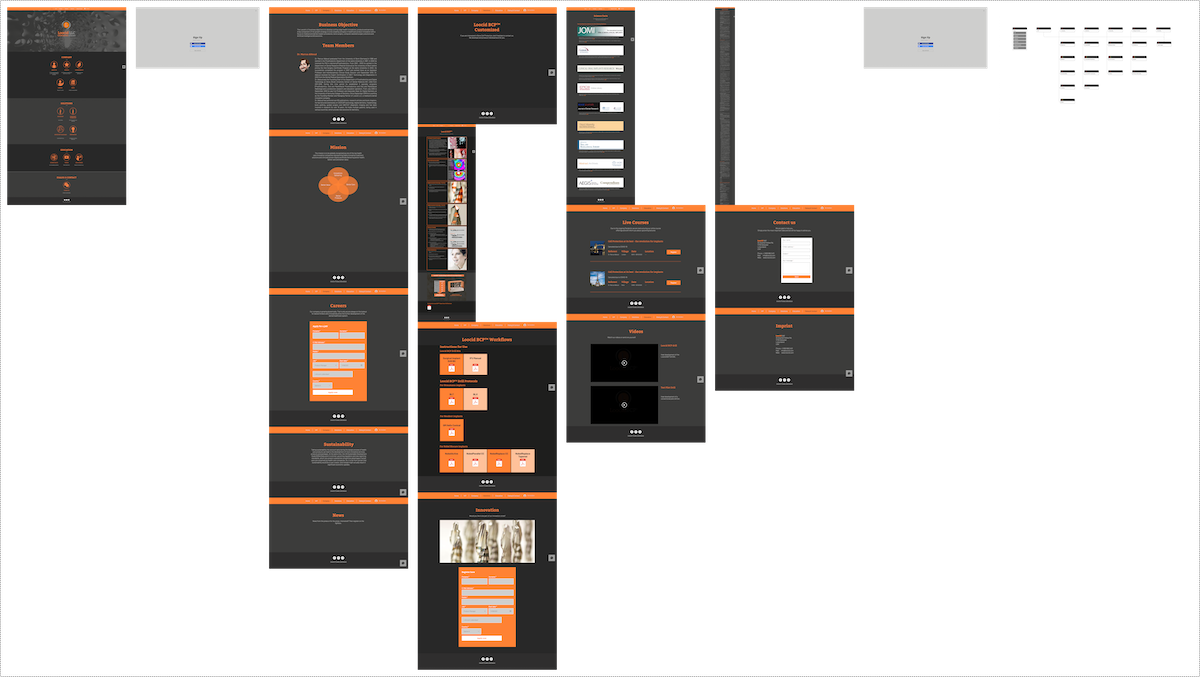
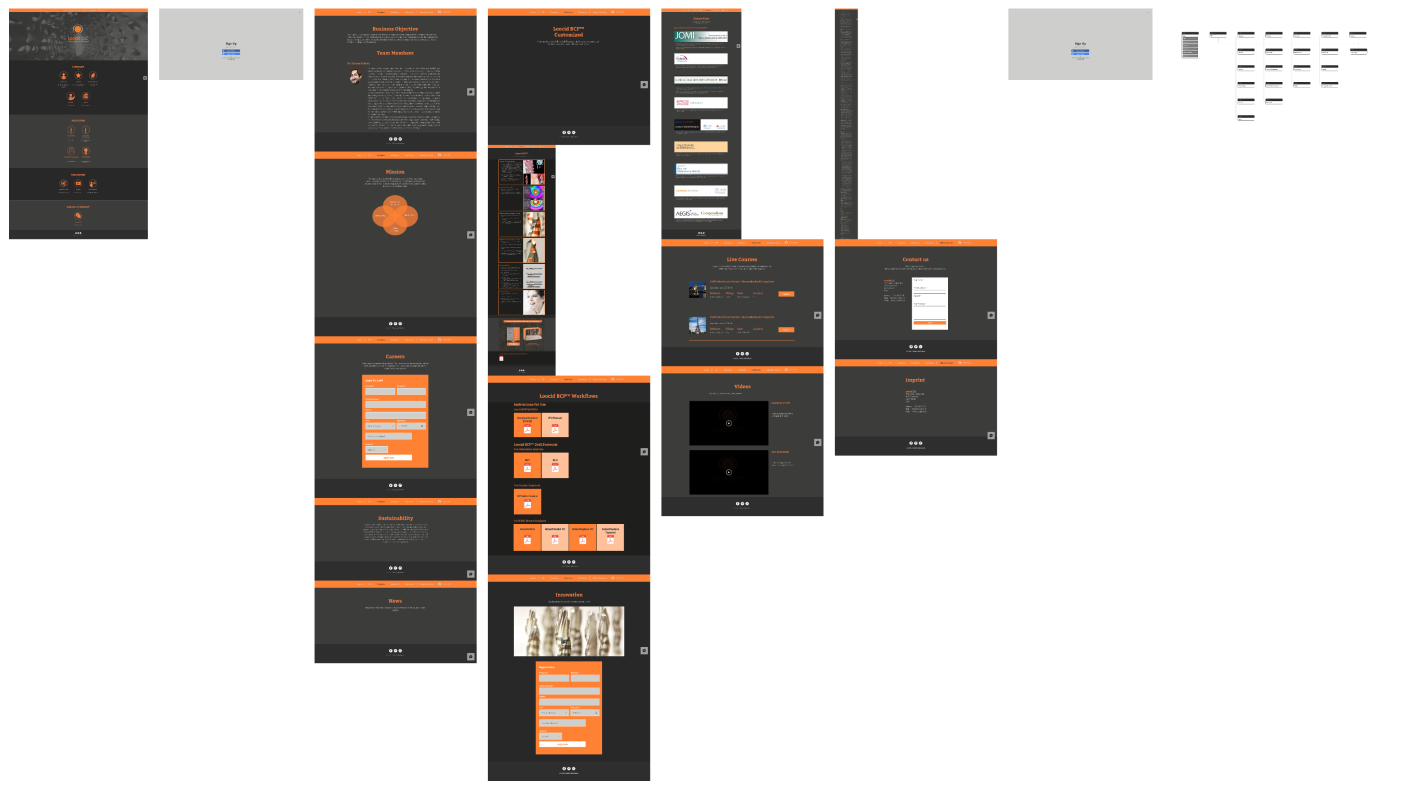
added callout box to images

diff --git a/IAforMedtech.html b/IAforMedtech.html
@@ -4,7 +4,7 @@
     <meta charset="UTF-8">
     <meta http-equiv="X-UA-Compatible" content="IE=edge">
     <meta name="viewport" content="width=device-width, initial-scale=1.0, maximum-scale=1.0" />
-    <title>Chivalry II</title>
+    <title>IA for MedTech</title>
     <link rel="shortcut icon" type="image/jpg" href="assets/images/Worf 32x32.png"/>
 
     <link rel="stylesheet" href="resources/css/background.css">
@@ -100,49 +100,59 @@
                     <h3>Information Architecture Audit</h3>
                     <p>I captured Loocid’s site in its current state with screen captures and a simple sitemap. All of the preexisting content would be included in the overhaul, so it was important to make sure every bit was accounted for. </p>
                  </div>
-
-                 <a href="assets/images/loocid_case_study/ia_audit.png">
-                     <img src="assets/images/loocid_case_study/ia_audit.png" class="small_img" alt="information architecture audit">
-                 </a>
+<div class="content callout">
+    
+                     <a href="assets/images/loocid_case_study/ia_audit.png">
+                         <img src="assets/images/loocid_case_study/ia_audit.png" class="small_img" alt="information architecture audit">
+                     </a>
+</div>
 
                  <div class="content">
                      <h3>Competitive Analysis</h3>
                      <p>I conducted a competitive analysis of several other Medtech company websites in the B2C and B2B domains, some of which were referred to me directly from Loocid, and some which I found on my own. I determined that the three most common strategies for structuring information were to either emphasize way-finding for distinct user groups, emphasize a ‘Products’ page, and have it cater to the needs of both private clinicians and wholesalers, or emphasize product information and testimonials.</p>
                  </div>
 
+
+<!-- Taxonomy -->
                  <div class="content">
                      <h3>Taxonomy</h3>
                      <p>I made a number of changes to existing page titles and navigation labels to make their contents clear and to help them be better parents to their children. For example, changing Solutions (information about the products) to Technology and Science Facts (publications) to publications helps Loocid proudly display their innovations and present them for what they are.</p>
                  </div>
 
-                 <a href="/assets/images/loocid_case_study/taxonomy.png">
+                 <!-- <a href="/assets/images/loocid_case_study/taxonomy.png">
                      <img src="/assets/images/loocid_case_study/taxonomy.png" class="small_img" alt="label and page name changes">
-                 </a>
+                 </a> -->
 
                  <div class="content">
                      <h3>Sitemap Development</h3>
                      <p>I presented three possible strategies to the client, which included options for the website's navigation, landing page content hierarchy, label taxonomy, and content strategy for the new products - the winner became the first iteration of the new sitemap.</p>
                  </div>
-
-                 <a href="assets/images/loocid_case_study/Sitemap-1.png">
-                     <img src="assets/images/loocid_case_study/Sitemap-1.png" class="large_img" alt="sitemap first iteration">
-                 </a>
+<div class="content callout">
+    
+                     <a href="assets/images/loocid_case_study/Sitemap-1.png">
+                         <img src="assets/images/loocid_case_study/Sitemap-1.png" class="large_img" alt="sitemap first iteration">
+                     </a>
+</div>
 
                  <div class="content p">
                      <p>After receiving feedback from the client, I produced a second iteration.</p>
                  </div>
 
-                 <a href="assets/images/loocid_case_study/sitemap_2.png">
-                     <img src="assets/images/loocid_case_study/sitemap_2.png" class="large_img" alt="sitemap second iteration">
-                 </a>
+                 <div class="content callout">
+                     <a href="assets/images/loocid_case_study/sitemap_2.png">
+                         <img src="assets/images/loocid_case_study/sitemap_2.png" class="large_img" alt="sitemap second iteration">
+                     </a>
+                 </div>
 
                  <div class="content">
                      <p>And with approval, the final version was handed off to The Wonder Mob for development.</p>
                  </div>
 
-                 <a href="assets/images/loocid_case_study/Sitemap-3.png">
-                     <img src="assets/images/loocid_case_study/Sitemap-3.png" class="full_img" alt="sitemap third iteration">
-                 </a>
+
+                     <a href="assets/images/loocid_case_study/Sitemap-3.png">
+                         <img src="assets/images/loocid_case_study/Sitemap-3.png" class="full_img" alt="sitemap third iteration">
+                     </a>
+
 
                 </div>
 
